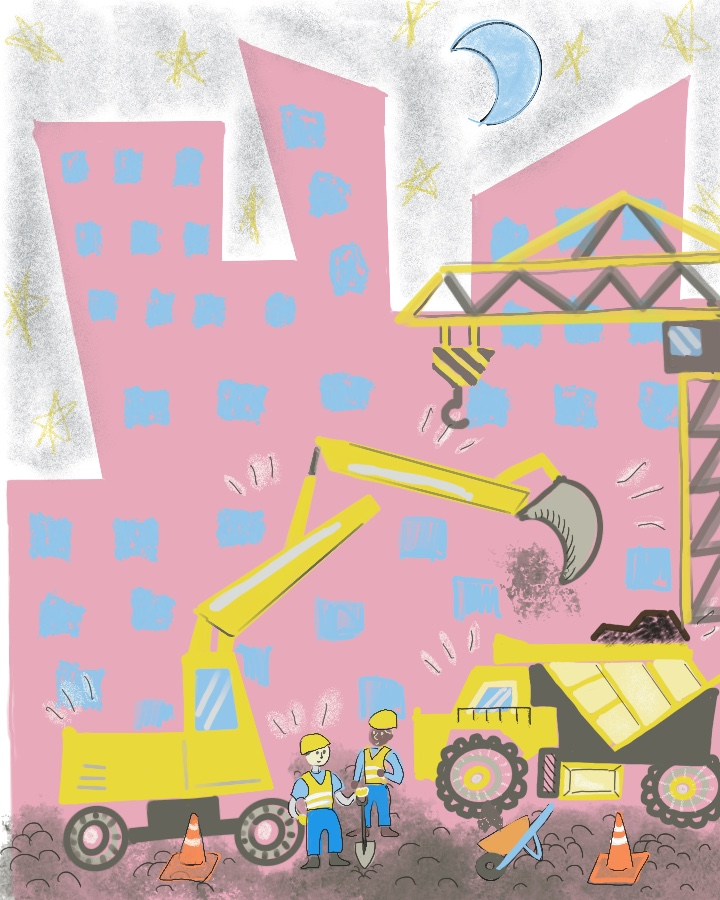
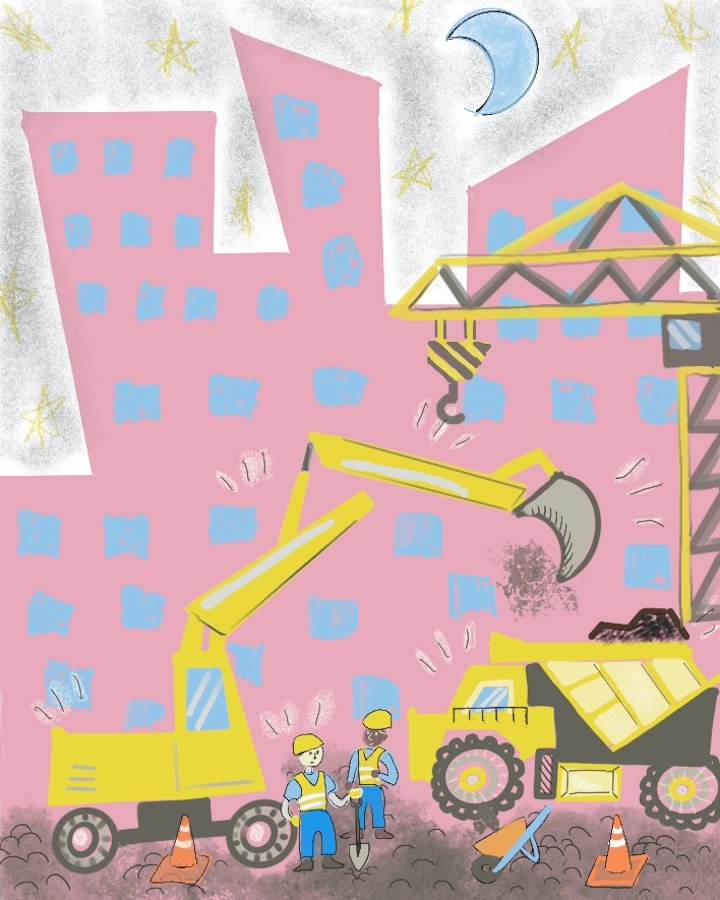
new illo

diff --git a/src/index.html b/src/index.html
@@ -90,122 +90,6 @@
       </switch>
     </each>
   </div>
-  <!--
-
-
-  <div class="section">
-    <div class="text even">
-      <p class="quote black"> “It’s weird how normal everything outside looks and how normal I feel after having been
-        inside for weeks.” </p>
-
-      <p class="author black">—Natalie Tak, Massachusetts
-      </p>
-    </div>
-    <div class="illo" id="second"></div>
-  </div>
-
-  <div class="section">
-    <div class="illo" id="third"></div>
-    <div class="text odd">
-      <p class="quote white">“Diesel (my dog) is so excited about quarantine because everyone is staying home with him.”
-      </p>
-
-      <p class="author white">—Tina Wang, Taipei
-      </p>
-    </div>
-  </div>
-
-  <div class="section">
-    <div class="text even">
-      <p class="quote black"> “Waking up every morning to loud banging and screeching chainsaws—guess construction
-        doesn't stop in quarantine.”
-      </p>
-
-      <p class="author black">—Angela Wei, Vancouver
-      </p>
-    </div>
-    <div class="illo" id="fourth"></div>
-  </div>
-  <div class="section">
-    <div class="illo" id="fifth"></div>
-    <div class="text odd">
-      <p class="quote white"> “It was a bit frightening to look out my window one day and see that the leaves were
-        starting to grow back. I had lost track of time.”
-      </p>
-
-      <p class="author white">—Helen Yang, New York
-      </p>
-    </div>
-  </div>
-
-  <div class="section">
-    <div class="text even">
-      <p class="quote black"> “It's strange, but New York felt more like home than this place ever did (not only because
-        my nerdy architect mind hates everything about the design in suburbia.”
-      </p>
-
-      <p class="author black">—Robert Hunter, Georgia
-      </p>
-    </div>
-    <div class="illo" id="sixth"></div>
-  </div>
-  <div class="section">
-    <div class="illo" id="seventh"></div>
-    <div class="text odd">
-      <p class="quote white">“At times I feel trapped in this indefinite pause, and then I look over at the trees
-        outside my window, still swaying and totally unbothered.”
-      </p>
-
-      <p class="author white">—Ellie Soh, Georgia</p>
-    </div>
-  </div>
-
-  <div class="section">
-    <div class="text even">
-      <p class="quote black"> “I feel like time has stopped. My sense of the immediate future has been taken away. But
-        weirdly, that’s a relief.”
-      </p>
-
-      <p class="author black">—Liz Nichols, Colorado
-      </p>
-    </div>
-    <div class="illo" id="eighth"></div>
-  </div>
-  <div class="section">
-    <div class="illo" id="ninth"></div>
-    <div class="text odd">
-      <p class="quote white"> “Basking with my cat in the warm sunlight, I wonder if spring flowers will bloom again by
-        the time this all ends.”
-
-      </p>
-
-      <p class="author white">—Brenda Huang, Pennsylvania
-
-      </p>
-    </div>
-  </div>
-
-  <div class="section">
-    <div class="text even">
-      <p class="quote black"> “As an angsty teen I wrote on one of the pines, “time is a big tree” and I’ve never felt
-        the sentiment more. My view has lately been gray, with overcast skies peering through the foliage, but I’m still
-        looking out for color.”
-
-      </p>
-
-      <p class="author black">—Liza Evseeva, Maryland
-
-      </p>
-    </div>
-    <div class="illo" id="tenth"></div>
-  </div>
-
--->
-  <div class="spectate-dev-footer">
-    <a href="{{ DOC_URL }}" target="_blank">Doc</a>
-  </div>
-
-  <include src="partials/footer.html"></include>
 
   <script src="./script.js"></script>
 

diff --git a/src/styles.scss b/src/styles.scss
@@ -71,11 +71,11 @@ body {
   #quote9 {
     background-image: url("../illos/BrendaHuang.png");
   }
-  /*
+  
   #quote10 {
-    background-image: url("../illos/lizaevseeva.jpg");
+    background-image: url("../illos/aaronjackson.png");
   }
-  */
+  
   #quote11 {
     background-image: url("../illos/lizaevseeva.jpg");
   }
